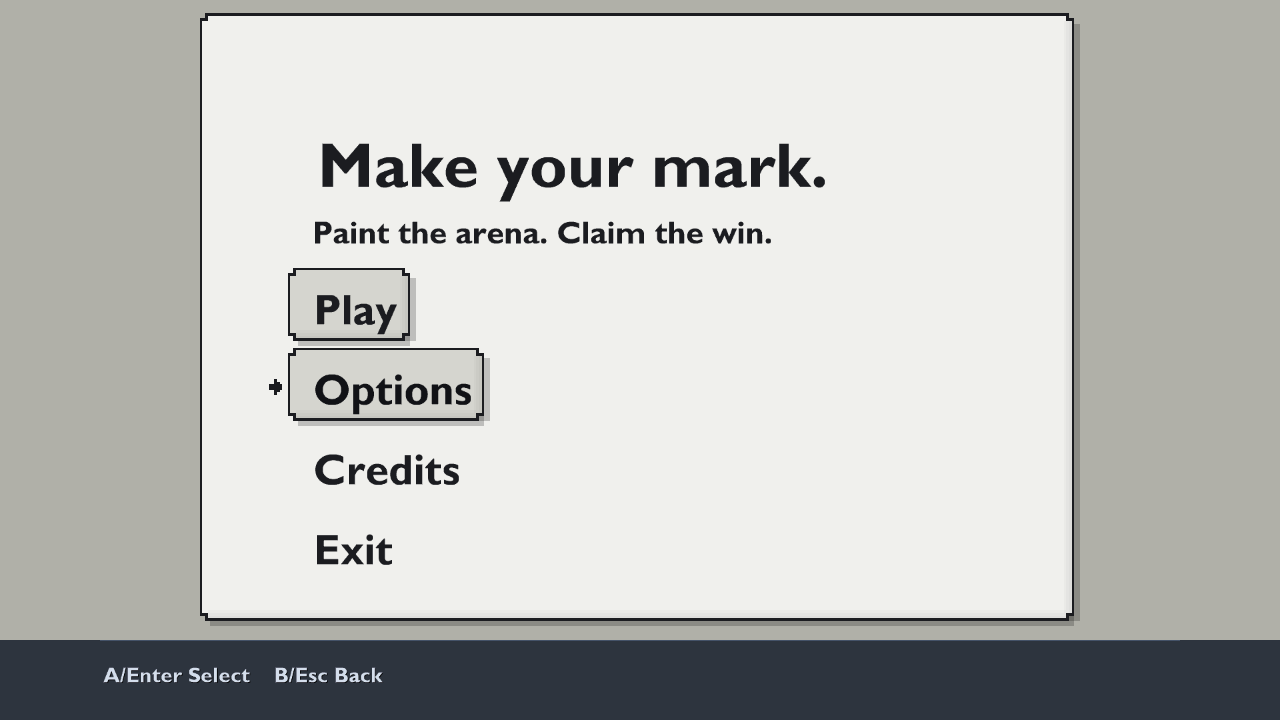
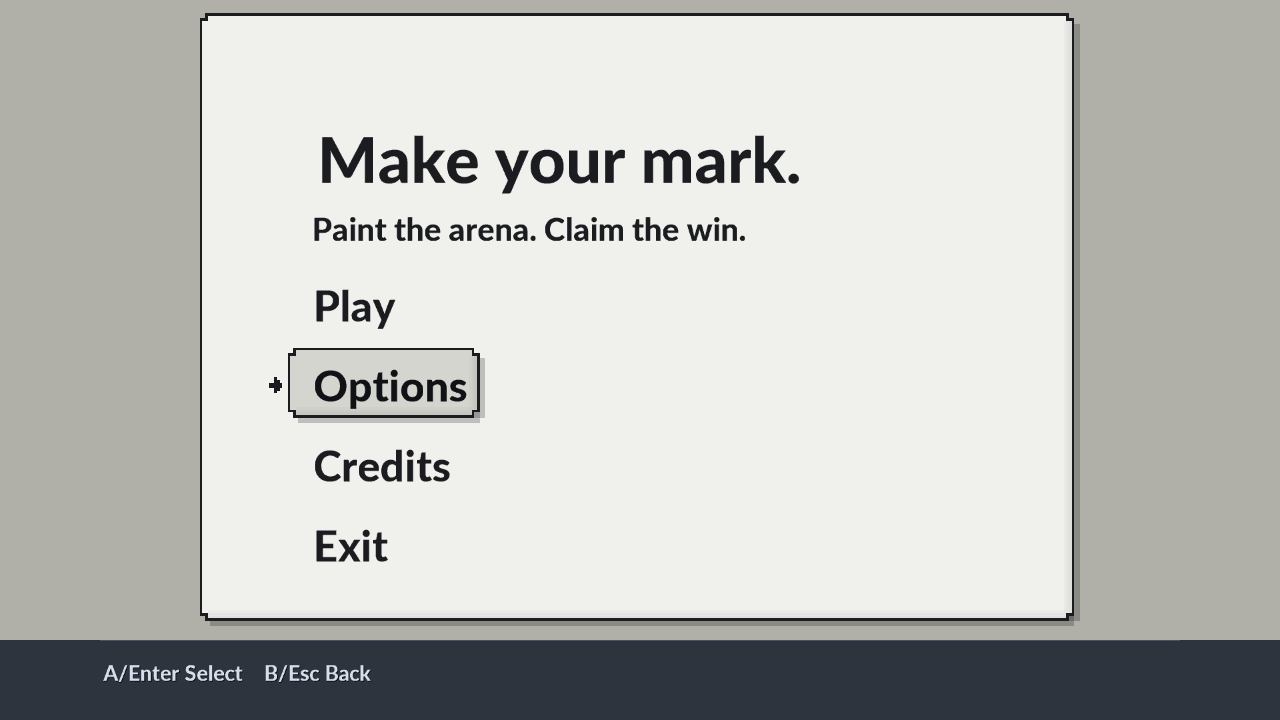
Fix the Home menu's duplicate highlight (POL#37)
Home passed Play to MenuPaperArtwork as its primary action, whose card is
drawn whether or not it has focus, so moving to Options showed two selected
cards. Home now passes no primary action; only the focused action has a card
and arrow. The title's single action and the End menu's deliberate
continuation card are unchanged.

MainMenuOnly now rejects any focus fill outside the focused action's card,
and the HomeReturnFocusOnly reference no longer draws a pinned Play card.
Both pass in Debug and Release; Release consumer acceptance passes.

Claude-Session: https://claude.ai/code/session_018kuv1JcW2zTu1SQBuh8ibk

diff --git a/scripts/acceptance/painter_visual/main_menu_checks.h b/scripts/acceptance/painter_visual/main_menu_checks.h
@@ -299,7 +299,7 @@ void main_menu_matrix(Application& app, const Canvas& canvas, GameTuning& tuning
                 "Native 720p title/home sampler comparison did not distinguish point and linear text");
         }
     };
-    const auto assert_focus = [&](const Frame& normal, const RectangleF& text, bool home = false)
+    const auto assert_focus = [&](const Frame& normal, const RectangleF& text)
     {
         const Colour original = art.focus_fill;
         art.focus_fill = Colour(0.0f, 1.0f, 1.0f);
@@ -307,7 +307,6 @@ void main_menu_matrix(Application& app, const Canvas& canvas, GameTuning& tuning
         art.focus_fill = original;
         const RectangleI changed = foreground_delta_bounds(normal, tinted);
         const RectangleI expected = countdown_crop_bounds(project(card(text)));
-        const RectangleI primary = countdown_crop_bounds(project(card(home_rows[0])));
         require(changed.width > 0 && changed.height > 0,
             "Actual title/home focus card disappeared");
         size_t fill_pixels = 0;
@@ -316,13 +315,11 @@ void main_menu_matrix(Application& app, const Canvas& canvas, GameTuning& tuning
             for (int x = changed.x; x < changed.right(); ++x)
             {
                 if (same_pixel(normal, tinted, hud_pixel_offset(normal, x, y))) { continue; }
-                const bool current = x >= expected.x && x < expected.right() &&
-                    y >= expected.y && y < expected.bottom();
-                const bool pinned = home && x >= primary.x && x < primary.right() &&
-                    y >= primary.y && y < primary.bottom();
-                require(current || pinned,
-                    "Actual title/home focus fill escaped its action and pinned Play card");
-                if (current) { ++fill_pixels; }
+                // One card only: Home pins no Play card off focus (POL#37).
+                require(x >= expected.x && x < expected.right() &&
+                    y >= expected.y && y < expected.bottom(),
+                    "Actual title/home focus fill escaped its focused action");
+                ++fill_pixels;
             }
         }
         require(fill_pixels > 30, "Title/home focus card had no visible paper fill");
@@ -382,7 +379,7 @@ void main_menu_matrix(Application& app, const Canvas& canvas, GameTuning& tuning
         const Frame home = main_menu_frame(app);
         try
         {
-            require(assert_focus(home, home_rows[static_cast<size_t>(destination)], true) > 30,
+            require(assert_focus(home, home_rows[static_cast<size_t>(destination)]) > 30,
                 "Home route fixture did not focus its requested destination");
         }
         catch (...)
@@ -412,7 +409,7 @@ void main_menu_matrix(Application& app, const Canvas& canvas, GameTuning& tuning
         require(stack.depth() == 2 && expected.pixels == actual.pixels,
             "Home Play/Options/Credits reached the wrong actual page");
         tap(Key::escape);
-        require(assert_focus(main_menu_frame(app), home_rows[static_cast<size_t>(destination)], true) > 30,
+        require(assert_focus(main_menu_frame(app), home_rows[static_cast<size_t>(destination)]) > 30,
             "Returning from Play/Options/Credits did not restore its corresponding Home action");
     }
 
@@ -443,7 +440,7 @@ void main_menu_matrix(Application& app, const Canvas& canvas, GameTuning& tuning
             const size_t paper_pixels = foreground_local_delta(normal, tinted,
                 RectangleF(Vector2F(pixels.position()), Vector2F(pixels.size())));
             require(paper_pixels > 100, "Title/home paper has no substantial visible fill");
-            const size_t focus_pixels = assert_focus(normal, focus_text, std::string(page) == "home");
+            const size_t focus_pixels = assert_focus(normal, focus_text);
             text_contrast(normal, focus_text);
             const std::string stem = std::string("main-menu-") + page + '-' + focused + '-' +
                 std::to_string(size.x) + 'x' + std::to_string(size.y);
@@ -477,7 +474,7 @@ void main_menu_matrix(Application& app, const Canvas& canvas, GameTuning& tuning
             if (row + 1 < home_rows.size()) { tap(Key::down); }
         }
         tap(Key::up);
-        require(assert_focus(main_menu_frame(app), home_rows[2], true) > 30,
+        require(assert_focus(main_menu_frame(app), home_rows[2]) > 30,
             "Home Up did not return focus to Credits");
         tap(Key::escape);
         require(title_frame.pixels == main_menu_frame(app).pixels,

diff --git a/scripts/acceptance/painter_visual/home_return_focus_checks.h b/scripts/acceptance/painter_visual/home_return_focus_checks.h
@@ -99,11 +99,10 @@ void home_return_focus_matrix(Application& app, const Canvas& canvas, GameTuning
         sheet->draw(list, pixel, RectangleF(Vector2F::ZERO, menu_consts::DESIGN_RESOLUTION), look.home_background_colour);
         const RectangleF panel((Vector2F(menu_consts::DESIGN_RESOLUTION.x, style.footer_y) - look.home_box_size) / 2.0f, look.home_box_size);
         setup_paper_reference(list, *app.render_resources(), style, art, panel, RectangleF());
+        // Only the focused action has a card; Play is not pinned (POL#37).
         auto card_art = art; card_art.paper = art.focus_fill;
-        RectangleF primary = rows[0]; primary.inflate(art.focus_padding);
-        setup_paper_reference(list, *app.render_resources(), style, card_art, primary, RectangleF());
         RectangleF focused = rows[static_cast<size_t>(selected)]; focused.inflate(art.focus_padding);
-        if (selected != 0) { setup_paper_reference(list, *app.render_resources(), style, card_art, focused, RectangleF()); }
+        setup_paper_reference(list, *app.render_resources(), style, card_art, focused, RectangleF());
         const auto ink = [&](RectangleF bounds)
         {
             sheet->draw(list, pixel, bounds, Colour(art.ink.r * art.ink.a, art.ink.g * art.ink.a, art.ink.b * art.ink.a, art.ink.a));

diff --git a/game/states/main_menu.cpp b/game/states/main_menu.cpp
@@ -287,7 +287,7 @@ void MainMenuHome::init()
 	this->paper_ = std::make_unique<MenuPaperArtwork>(
 		RectangleF((Vector2F(DESIGN_RESOLUTION.x, style.footer_y) - look.home_box_size) / 2.0f,
 			look.home_box_size),
-		this->render_resources(), &style, &look.art, &this->focus_, this->play_.get(),
+		this->render_resources(), &style, &look.art, &this->focus_, nullptr,
 		&this->focus_motion_, &this->save()->play_settings());
 
 	this->texture_container_ = std::make_unique<UiContainer>("texture_container");

diff --git a/docs/polish-main-menu.md b/docs/polish-main-menu.md
@@ -5,7 +5,7 @@ the same pale stepped paper, dark ink, black keyline and quiet edge shade as
 the match menus. A solid neutral surround replaces the textured backdrop on
 these two pages. The title, subtitle, start action and build label center from
 actual font measurements. Home keeps its existing heading and four actions;
-Play has a persistent paper card, and a detached ink arrow follows focus.
+only the focused action has a paper card, and a detached ink arrow follows it.
 
 `MenuPaperArtwork` draws both panels and their action cards from the existing
 solid texel. The paper belongs to the texture layer, with point sampling;
@@ -34,15 +34,21 @@ position and font bounds are retained for that existing hint.
 
 ## Main-menu duplicate highlight (`POL#37`)
 
-**OPEN, reported by the author 2026-10-27.** On the main menu, press Down
-from the first item: its highlight remains while a second highlight appears
-on the second item, making both look selected.
+**Fixed 2026-10-27, reported by the author the same day.** Pressing Down from
+Play left Play's paper card in place while Options gained its own, so two
+actions looked selected. Home was the one page passing Play as
+`MenuPaperArtwork`'s *primary* action, whose card is drawn whether or not it
+has focus; the text colour already followed focus. Home now passes no primary
+action, so the focused action alone has a card and arrow. The title page's
+only action is always focused, so it is unchanged. The End menu keeps its
+deliberately persistent continuation card ([End continuation labels](menu-presentation.md#end-continuation-labels-gap84)).
 
-Next, reproduce this on Home and check the persistent Play paper card described
-above against the actual focus drawing. Correct the treatment so only the
-current action looks selected. Acceptance: Down/Up through all four actions,
-including wraparound and returning from a child page, leaves one unambiguous
-selection indicator on the action that confirmation activates.
+`MainMenuOnly` now fails if any focus-fill pixel lies outside the focused
+action's card on Home, where it used to permit a pinned Play card; the
+independent `HomeReturnFocusOnly` reference no longer draws one. Both pass on
+D3D11 in Debug for Down/Up through all four actions and for every child-page
+return. The retained [Options capture](images/polish-main-menu/options-720p.png)
+is replaced.
 
 ## Validation
 

diff --git a/TODO.md b/TODO.md
@@ -96,7 +96,6 @@ questions in the polish sub-docs are superseded, not open.
 | `POL#16` | DEFERRED | MED | XL | Extend the approved treatment through accepted arenas after `POL#21`; remaining UI art is a later polish pass. [§6](docs/polish-plan.md#6-finish-the-match-presentation-and-extend-the-treatment). |
 | `POL#34` | DECISION | MED | M | Choose the recorded fractional, camera-snap or integer-cell/letterbox display policy after 720p/1080p/QHD motion and 1/2/4P readability review. [Record](docs/polish-plan.md#display-scaling-record). |
 | `POL#35` | DEFERRED | LOW | S | Signage and captioned Paint-artefact jokes need the author's wording; with `POL#16`. [Terrain](docs/polish-terrain.md#stage-approval-and-remaining-environment-work-2026-10-20). |
-| `POL#37` | OPEN | HIGH | S | Fix the main-menu duplicate highlight: Down leaves the first item highlighted while highlighting the second. [Report and acceptance](docs/polish-main-menu.md#main-menu-duplicate-highlight-pol37). |
 
 ## Feel and feedback
 
